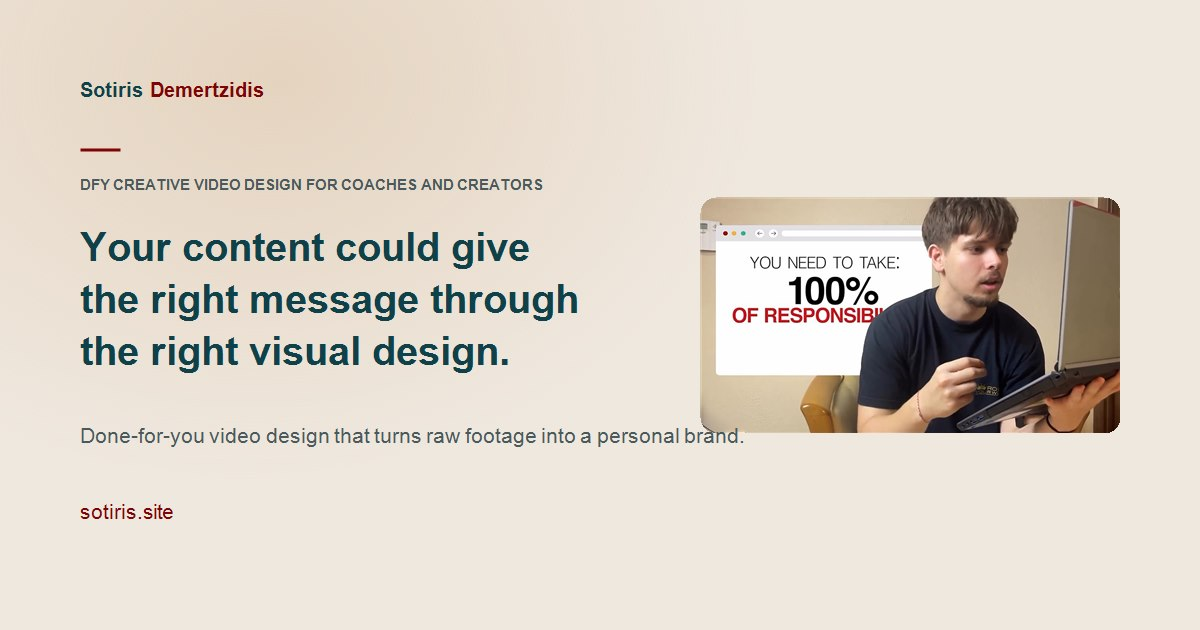
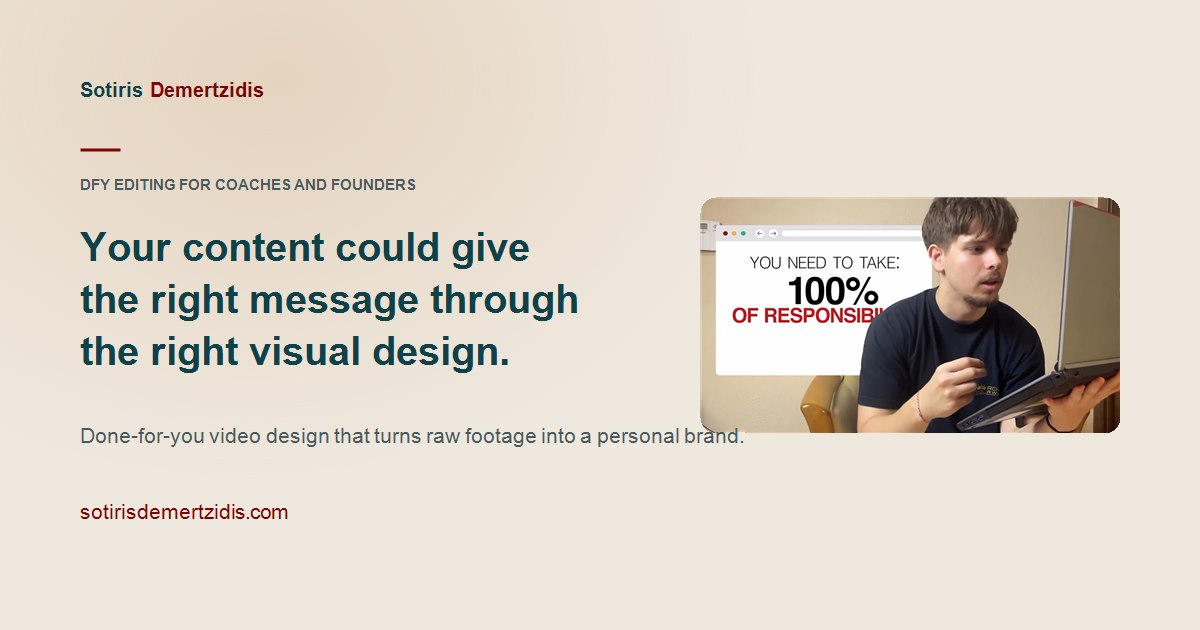
Say founders everywhere, and draw the S the way the site draws it
"Creators" becomes "founders" across the copy, so the title is not saying
one thing while the page says another: the hero eyebrow, the about
paragraph, the meta descriptions, the Open Graph and Twitter descriptions,
the image alt text, and the "01 / FOR COACHES & FOUNDERS" card on the
sign-up chooser. Fourteen places.

Left alone deliberately: "i help ugc creators hit their first $10k/mo" on
the landing page is Matthew Feola's own Instagram bio, not positioning.

The share card had the old line baked into the image, so it is redrawn —
and now reads DFY EDITING FOR COACHES AND FOUNDERS with the real domain
underneath.

The favicon S was mine, not the site's. I had centred the glyph in its em
box, which sits it high and makes it read small; the SVG places the
baseline at 44/64 with the glyph centred on 32/64 at font-size 34/64. The
PNGs are drawn to those numbers now — same proportions, same weight
(Georgia has 400 and 700, and CSS matching takes 700 for the 600 the SVG
asks for), so the icon matches the mark the site has always used.
Regenerated at 16, 32, 48, 96, 180, 192 and 512.

Changed region(s): [[0.0925, 0.2714, 0.4625, 0.3016], [0.1233, 0.7841, 0.2467, 0.8444]]

diff --git a/index.html b/index.html
@@ -10,20 +10,20 @@
 <link rel="apple-touch-icon" href="/assets/apple-touch-icon.png">
 <title>Sotiris Demertzidis — DFY Editing for Coaches & Founders</title>
 <!-- head:phase8 -->
-<meta name="description" content="Done-for-you video design for coaches and creators. I find the emotion in your raw footage and turn it into content that earns trust — and give you a dashboard to watch it work.">
+<meta name="description" content="Done-for-you video design for coaches and founders. I find the emotion in your raw footage and turn it into content that earns trust — and give you a dashboard to watch it work.">
 <link rel="canonical" href="https://www.sotirisdemertzidis.com/">
 <meta property="og:type" content="website">
 <meta property="og:url" content="https://www.sotirisdemertzidis.com/">
 <meta property="og:title" content="Sotiris Demertzidis — DFY Editing for Coaches & Founders">
-<meta property="og:description" content="Done-for-you video design for coaches and creators. I find the emotion in your raw footage and turn it into content that earns trust — and give you a dashboard to watch it work.">
+<meta property="og:description" content="Done-for-you video design for coaches and founders. I find the emotion in your raw footage and turn it into content that earns trust — and give you a dashboard to watch it work.">
 <meta property="og:image" content="https://www.sotirisdemertzidis.com/assets/og-card.jpg">
 <meta property="og:image:width" content="1200">
 <meta property="og:image:height" content="630">
-<meta property="og:image:alt" content="Sotiris Demertzidis — done-for-you video design for coaches and creators">
+<meta property="og:image:alt" content="Sotiris Demertzidis — done-for-you video design for coaches and founders">
 <meta property="og:site_name" content="Sotiris Demertzidis">
 <meta name="twitter:card" content="summary_large_image">
 <meta name="twitter:title" content="Sotiris Demertzidis — DFY Editing for Coaches & Founders">
-<meta name="twitter:description" content="Done-for-you video design for coaches and creators. I find the emotion in your raw footage and turn it into content that earns trust — and give you a dashboard to watch it work.">
+<meta name="twitter:description" content="Done-for-you video design for coaches and founders. I find the emotion in your raw footage and turn it into content that earns trust — and give you a dashboard to watch it work.">
 <meta name="twitter:image" content="https://www.sotirisdemertzidis.com/assets/og-card.jpg">
 
 <link rel="preconnect" href="https://fonts.googleapis.com">
@@ -1075,7 +1075,7 @@
   <!-- HERO -->
   <section class="hero">
     <div>
-      <div class="eyebrow"><span class="dot"></span> DFY CREATIVE VIDEO DESIGN FOR COACHES AND CREATORS</div>
+      <div class="eyebrow"><span class="dot"></span> DFY CREATIVE VIDEO DESIGN FOR COACHES AND FOUNDERS</div>
       <h1 id="hero-h1"><span class="reveal-line"><span class="reveal-inner">Your content could give the</span></span><span class="reveal-line"><span class="reveal-inner"><span class="accent-italic accent-pop" style="animation-delay: 0.45s;">right</span> message through the</span></span><span class="reveal-line"><span class="reveal-inner"><span class="accent-italic accent-pop" style="animation-delay: 0.6s;">right</span> visual design.</span></span></h1>
       <p class="hero-sub">I find emotion in your raw videos and turn it into visual design — not just a motion graphic, but a done-for-you service that takes care of your personal brand's video design so you can scale.</p>
       <div class="hero-ctas">
@@ -1368,7 +1368,7 @@
         <h2 class="about-heading">The story your client needs to hear <span class="accent-italic">before buying</span>.</h2>
       </div>
       <div class="about-body">
-        <p>I'm Sotiris — I work with coaches and creators who know they can level up their personal brand through creative visual design, and find their ICPs through the internet.</p>
+        <p>I'm Sotiris — I work with coaches and founders who know they can level up their personal brand through creative visual design, and find their ICPs through the internet.</p>
         <p class="casual">I've worked with coaches pulling in <strong>$100k+ a month</strong>, helping them tighten up their positioning, visuals, and content so their personal brand actually pulls its weight.</p>
         <p class="casual">Here's the thing — at that level, it's rarely a "content" problem. It's a <strong>clarity</strong> problem. Visuals that don't match, a message that's all over the place, output that looks like everyone else's. End result: people who are genuinely great at what they do, staying invisible online.</p>
         <p class="casual">That's the gap I close — through editing and visual design that digs out what's actually different about you, then turns it into content that works for you around the clock.</p>

diff --git a/signup.html b/signup.html
@@ -10,20 +10,20 @@
 <link rel="apple-touch-icon" href="/assets/apple-touch-icon.png">
 <title>Sign Up — Sotiris Demertzidis</title>
 <!-- head:phase8 -->
-<meta name="description" content="Create your account for the Client Terminal, whether you are a coach or creator working with me or an editor on the team.">
+<meta name="description" content="Create your account for the Client Terminal, whether you are a coach or founder working with me or an editor on the team.">
 <link rel="canonical" href="https://www.sotirisdemertzidis.com/signup">
 <meta property="og:type" content="website">
 <meta property="og:url" content="https://www.sotirisdemertzidis.com/signup">
 <meta property="og:title" content="Sign Up — Client Terminal">
-<meta property="og:description" content="Create your account for the Client Terminal, whether you are a coach or creator working with me or an editor on the team.">
+<meta property="og:description" content="Create your account for the Client Terminal, whether you are a coach or founder working with me or an editor on the team.">
 <meta property="og:image" content="https://www.sotirisdemertzidis.com/assets/og-card.jpg">
 <meta property="og:image:width" content="1200">
 <meta property="og:image:height" content="630">
-<meta property="og:image:alt" content="Sotiris Demertzidis — done-for-you video design for coaches and creators">
+<meta property="og:image:alt" content="Sotiris Demertzidis — done-for-you video design for coaches and founders">
 <meta property="og:site_name" content="Sotiris Demertzidis">
 <meta name="twitter:card" content="summary_large_image">
 <meta name="twitter:title" content="Sign Up — Client Terminal">
-<meta name="twitter:description" content="Create your account for the Client Terminal, whether you are a coach or creator working with me or an editor on the team.">
+<meta name="twitter:description" content="Create your account for the Client Terminal, whether you are a coach or founder working with me or an editor on the team.">
 <meta name="twitter:image" content="https://www.sotirisdemertzidis.com/assets/og-card.jpg">
 
 <link rel="preconnect" href="https://fonts.googleapis.com">
@@ -211,7 +211,7 @@
 
       <div class="path-grid">
         <a href="client-signup" class="path-card client">
-          <div class="path-mark">01 / FOR COACHES &amp; CREATORS</div>
+          <div class="path-mark">01 / FOR COACHES &amp; FOUNDERS</div>
           <h2>Continue as Client</h2>
           <p>You're building your personal brand and want content, strategy, or editing support.</p>
           <span class="path-cta">Continue as Client

diff --git a/partner-signup.html b/partner-signup.html
@@ -19,7 +19,7 @@
 <meta property="og:image" content="https://www.sotirisdemertzidis.com/assets/og-card.jpg">
 <meta property="og:image:width" content="1200">
 <meta property="og:image:height" content="630">
-<meta property="og:image:alt" content="Sotiris Demertzidis — done-for-you video design for coaches and creators">
+<meta property="og:image:alt" content="Sotiris Demertzidis — done-for-you video design for coaches and founders">
 <meta property="og:site_name" content="Sotiris Demertzidis">
 <meta name="twitter:card" content="summary_large_image">
 <meta name="twitter:title" content="Partner Sign Up — Client Terminal">

diff --git a/client-signup.html b/client-signup.html
@@ -19,7 +19,7 @@
 <meta property="og:image" content="https://www.sotirisdemertzidis.com/assets/og-card.jpg">
 <meta property="og:image:width" content="1200">
 <meta property="og:image:height" content="630">
-<meta property="og:image:alt" content="Sotiris Demertzidis — done-for-you video design for coaches and creators">
+<meta property="og:image:alt" content="Sotiris Demertzidis — done-for-you video design for coaches and founders">
 <meta property="og:site_name" content="Sotiris Demertzidis">
 <meta name="twitter:card" content="summary_large_image">
 <meta name="twitter:title" content="Client Sign Up — Client Terminal">

diff --git a/login.html b/login.html
@@ -19,7 +19,7 @@
 <meta property="og:image" content="https://www.sotirisdemertzidis.com/assets/og-card.jpg">
 <meta property="og:image:width" content="1200">
 <meta property="og:image:height" content="630">
-<meta property="og:image:alt" content="Sotiris Demertzidis — done-for-you video design for coaches and creators">
+<meta property="og:image:alt" content="Sotiris Demertzidis — done-for-you video design for coaches and founders">
 <meta property="og:site_name" content="Sotiris Demertzidis">
 <meta name="twitter:card" content="summary_large_image">
 <meta name="twitter:title" content="Log In — Client Terminal">
